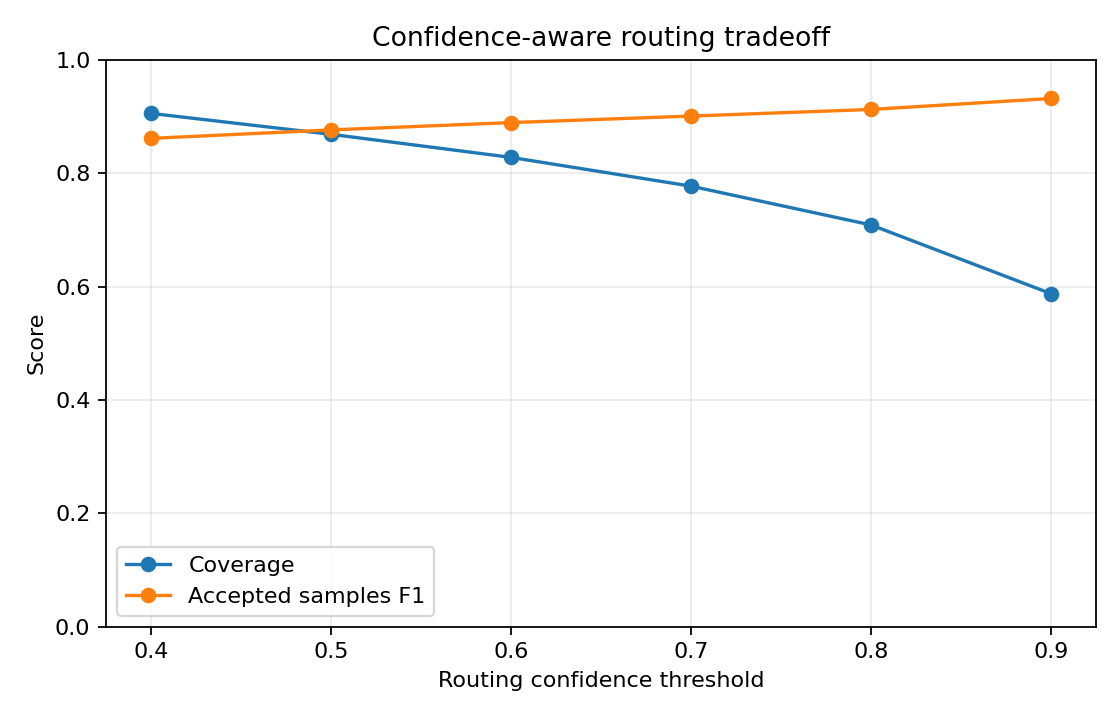
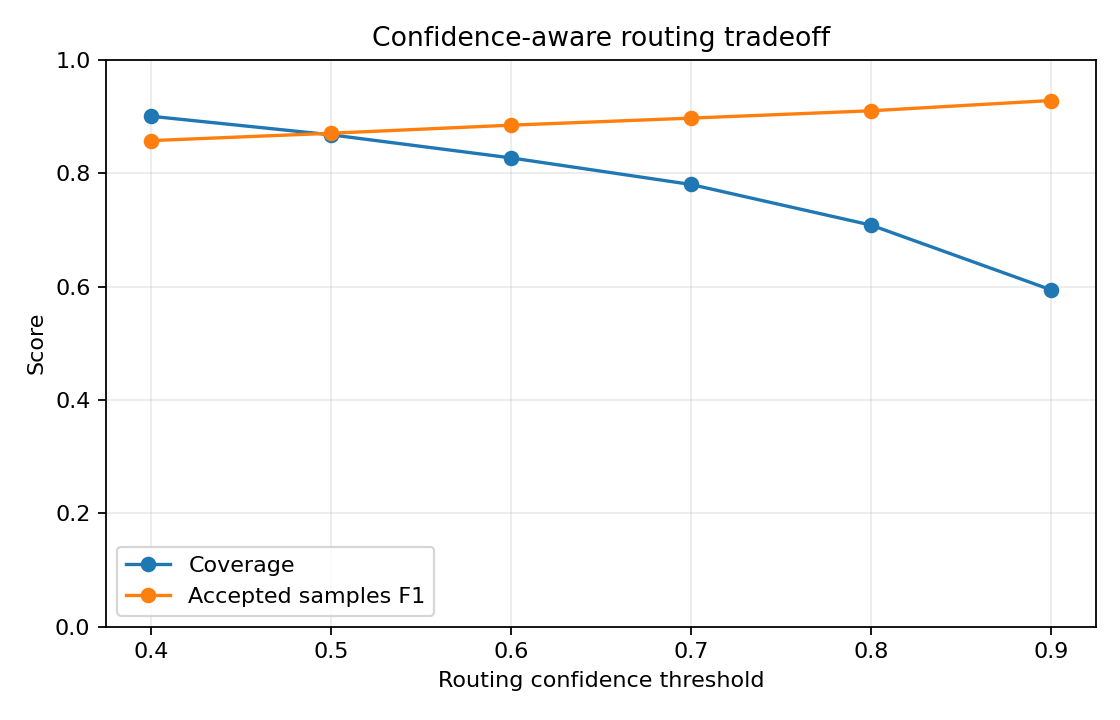
experiment: separate calibration and threshold tuning

diff --git a/src/models/calibrate.py b/src/models/calibrate.py
@@ -13,6 +13,7 @@ from sklearn.linear_model import LogisticRegression
 from sklearn.metrics import brier_score_loss, f1_score
 
 from src.config import load_config, project_path
+from src.data.split import select_grouped_holdout
 from src.evaluation.metrics import multilabel_metrics
 from src.models.train_classical import load_partitions
 
@@ -147,15 +148,41 @@ def calibrate(config_path: str = "configs/experiment.yaml") -> dict:
     validation_scores = pipeline.decision_function(partitions["validation"]["text"])
     test_scores = pipeline.decision_function(partitions["test"]["text"])
     raw_test_probabilities = pipeline.predict_proba(partitions["test"]["text"])
-    calibrator = PerLabelPlattCalibrator.fit(validation_scores, targets["validation"], config["seed"])
+    confidence_config = config["confidence"]
+    calibration_split = select_grouped_holdout(
+        partitions["validation"],
+        targets["validation"],
+        confidence_config["threshold_selection_size"],
+        config["seed"] + confidence_config["split_seed_offset"],
+        attempts=confidence_config["split_candidate_attempts"],
+    )
+    calibration_indices = calibration_split.train_indices
+    threshold_indices = calibration_split.holdout_indices
+    calibrator = PerLabelPlattCalibrator.fit(
+        validation_scores[calibration_indices],
+        targets["validation"][calibration_indices],
+        config["seed"],
+    )
     validation_probabilities = calibrator.predict_proba(validation_scores)
     test_probabilities = calibrator.predict_proba(test_scores)
-    label_thresholds = choose_label_thresholds(targets["validation"], validation_probabilities)
+    label_thresholds = choose_label_thresholds(
+        targets["validation"][threshold_indices],
+        validation_probabilities[threshold_indices],
+    )
     test_predictions = (test_probabilities >= label_thresholds).astype(int)
 
     model_metrics = multilabel_metrics(targets["test"], test_predictions, labels)
     metrics = {
-        "method": "per-label Platt scaling on validation partition",
+        "method": "per-label Platt scaling and threshold selection on disjoint source-grouped validation subsets",
+        "validation_subsets": {
+            "calibration_examples": len(calibration_indices),
+            "threshold_selection_examples": len(threshold_indices),
+            "selection_seed": calibration_split.seed,
+            "source_overlap": len(
+                set(partitions["validation"].iloc[calibration_indices]["source_id"])
+                & set(partitions["validation"].iloc[threshold_indices]["source_id"])
+            ),
+        },
         "raw_probability_calibration": calibration_metrics(targets["test"], raw_test_probabilities),
         "platt_calibration": calibration_metrics(targets["test"], test_probabilities),
         "label_thresholds": dict(zip(labels, label_thresholds.tolist())),

diff --git a/tests/test_confidence.py b/tests/test_confidence.py
@@ -1,5 +1,7 @@
 import numpy as np
+import pandas as pd
 
+from src.data.split import select_grouped_holdout
 from src.models.calibrate import route_predictions, routing_confidence
 
 
@@ -16,3 +18,14 @@ def test_routing_confidence_handles_no_positive_label() -> None:
     predictions = np.array([[0, 0]])
 
     assert routing_confidence(probabilities, predictions).tolist() == [0.35]
+
+
+def test_calibration_subsets_can_be_group_disjoint() -> None:
+    frame = pd.DataFrame({"source_id": [f"G{group}" for group in range(20) for _ in range(2)]})
+    targets = np.column_stack([np.ones(40), np.tile([0, 1], 20)])
+
+    split = select_grouped_holdout(frame, targets, 0.5, 3042, attempts=64)
+
+    calibration_sources = set(frame.iloc[split.train_indices]["source_id"])
+    threshold_sources = set(frame.iloc[split.holdout_indices]["source_id"])
+    assert calibration_sources.isdisjoint(threshold_sources)
